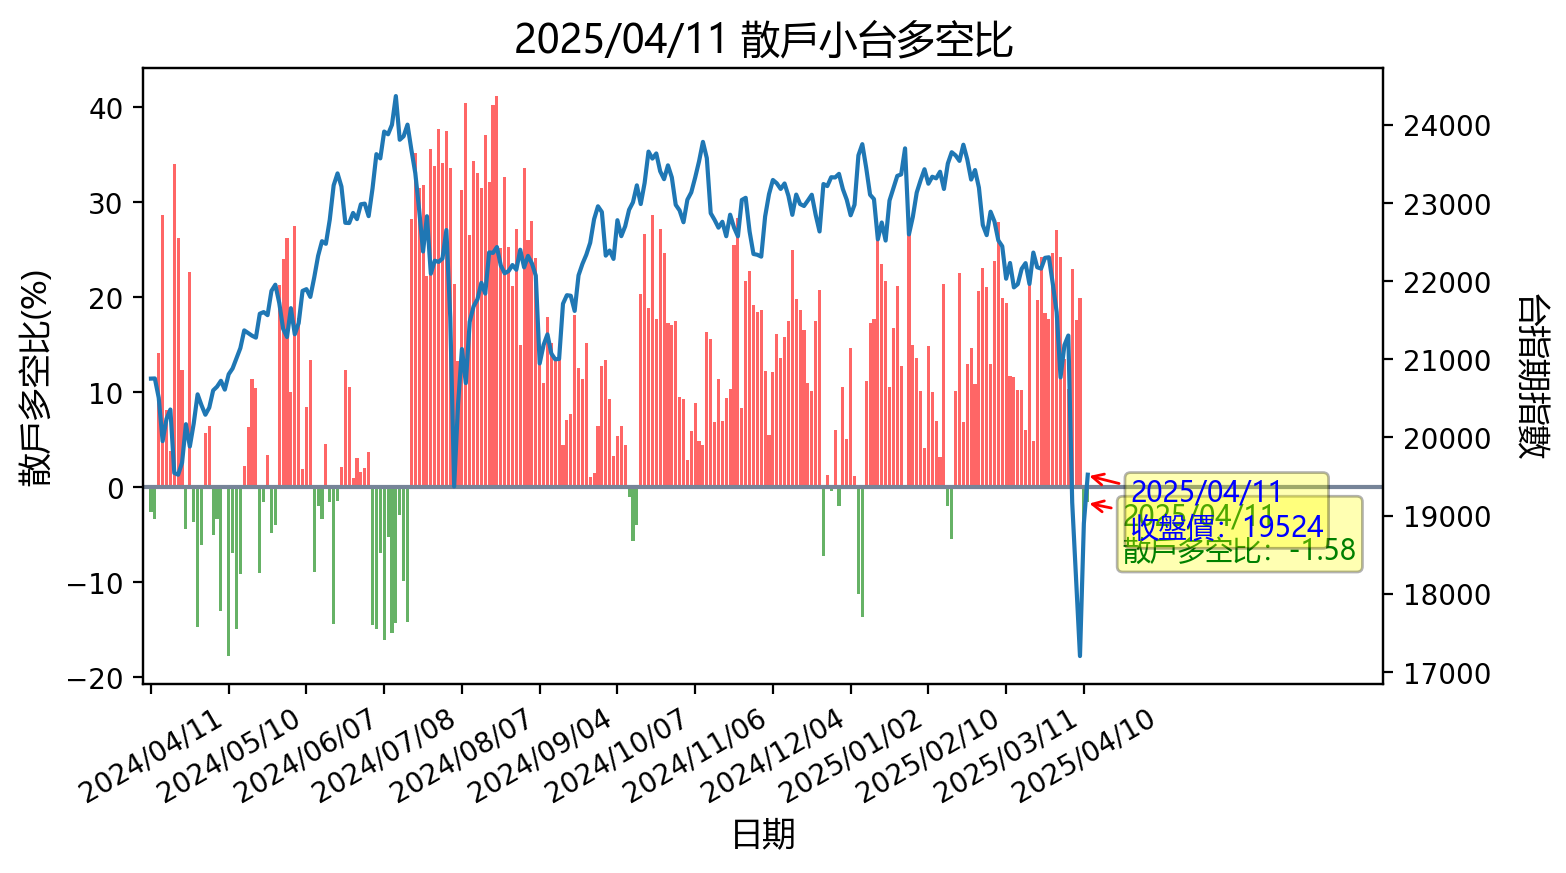
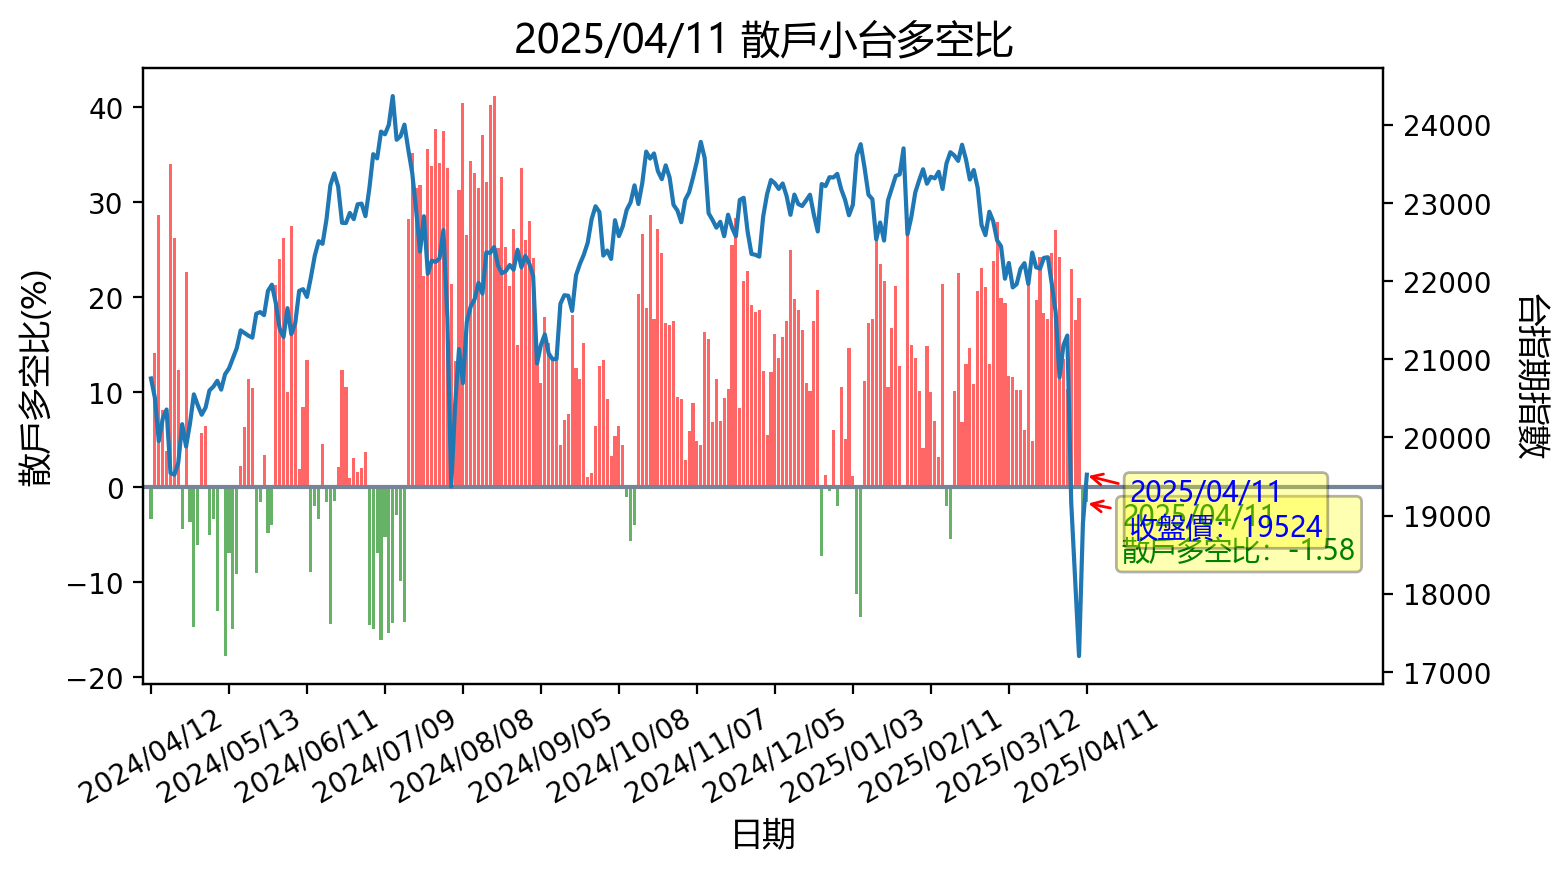
更新時間: Sat Apr 12 16:34:28 CST 2025

Changed region(s): [[0.092, 0.1237, 0.8889, 0.7423], [0.1533, 0.8041, 0.7356, 0.9278], [0.1226, 0.8041, 0.1533, 0.8351]]

diff --git a/README.md b/README.md
@@ -1,12 +1,12 @@
-## 20250411 台指期「預估換倉成本」
+## 20250412 台指期「預估換倉成本」
 ![](images/txfcost.png)
 
-## 20250411 台指期「散戶小台多空比」
+## 20250412 台指期「散戶小台多空比」
 ![](images/bbiri.png)
 
-## 20250411 台指選擇權「Put/Call Ratios」
+## 20250412 台指選擇權「Put/Call Ratios」
 ![](images/pcratio.png)
 
-## 20250411 台指期「大額交易人」
+## 20250412 台指期「大額交易人」
 ![](images/blocktrade.png)
 
